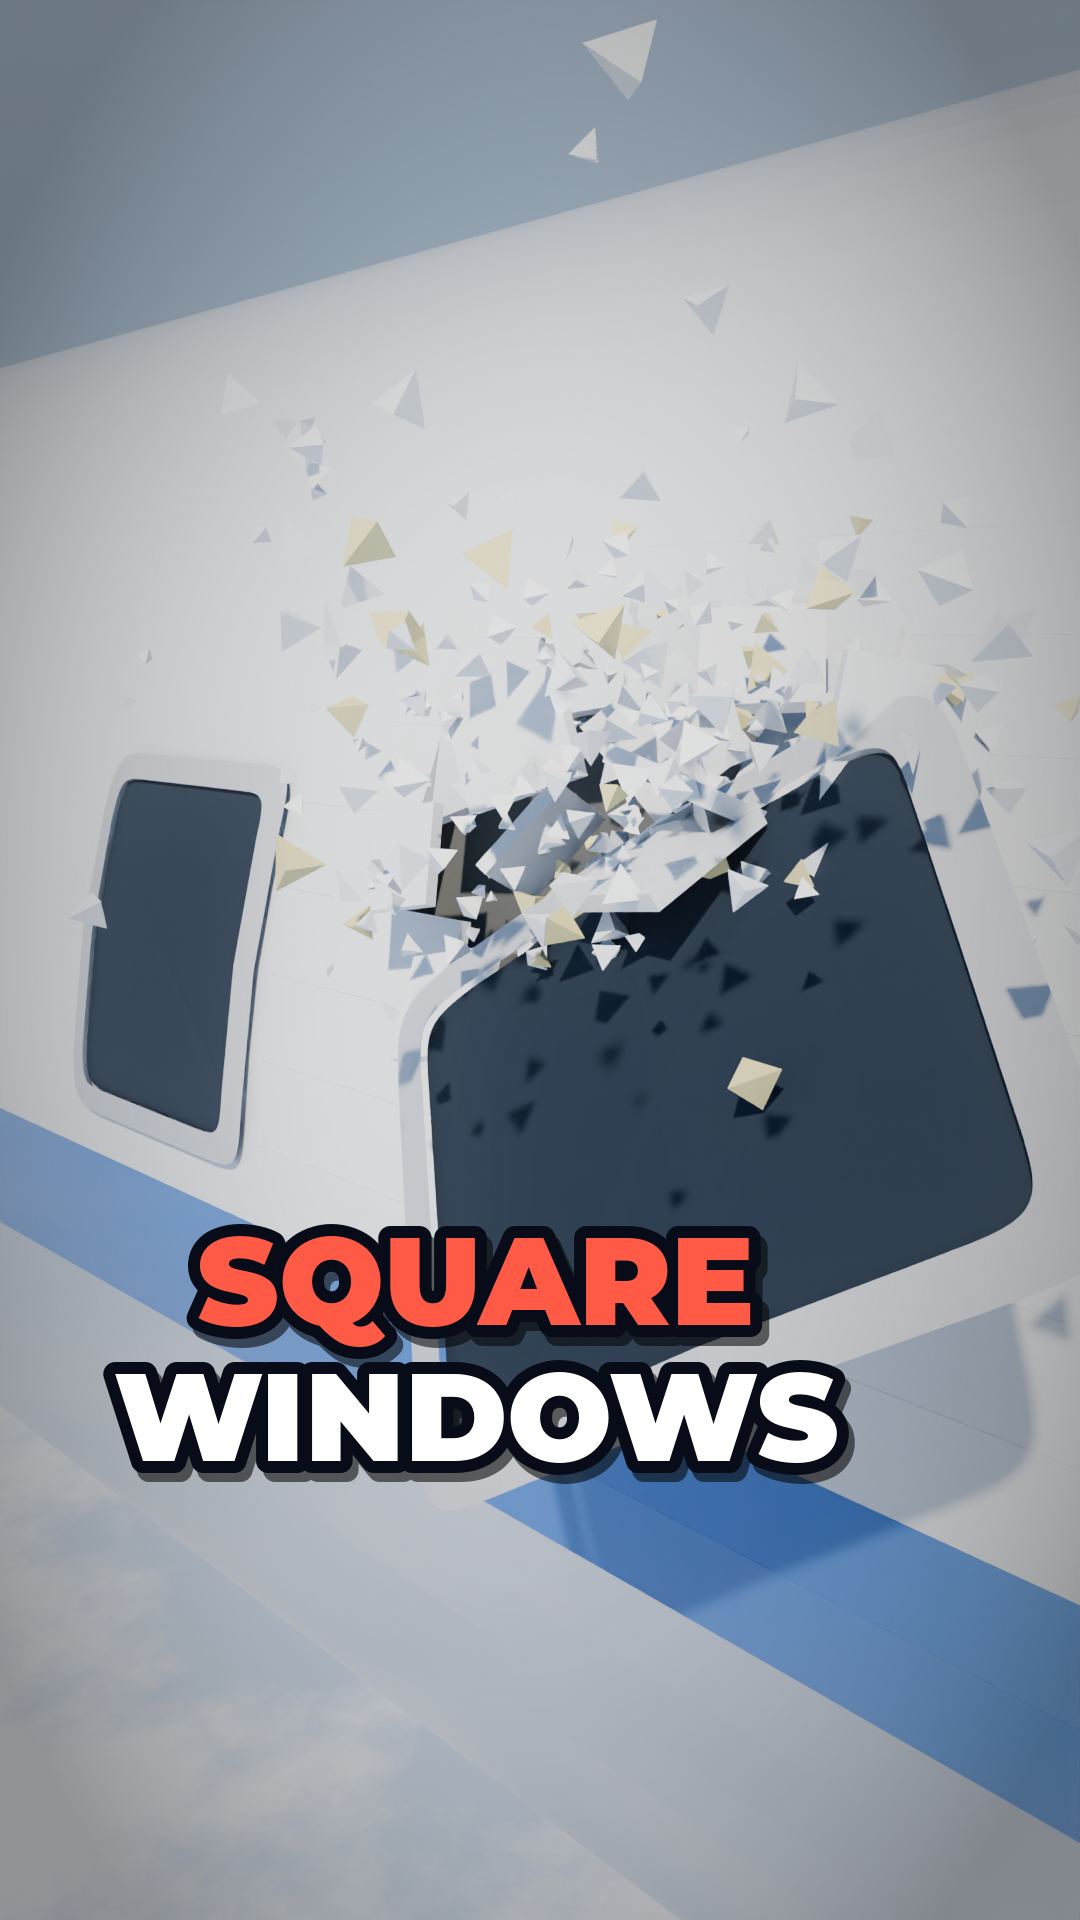
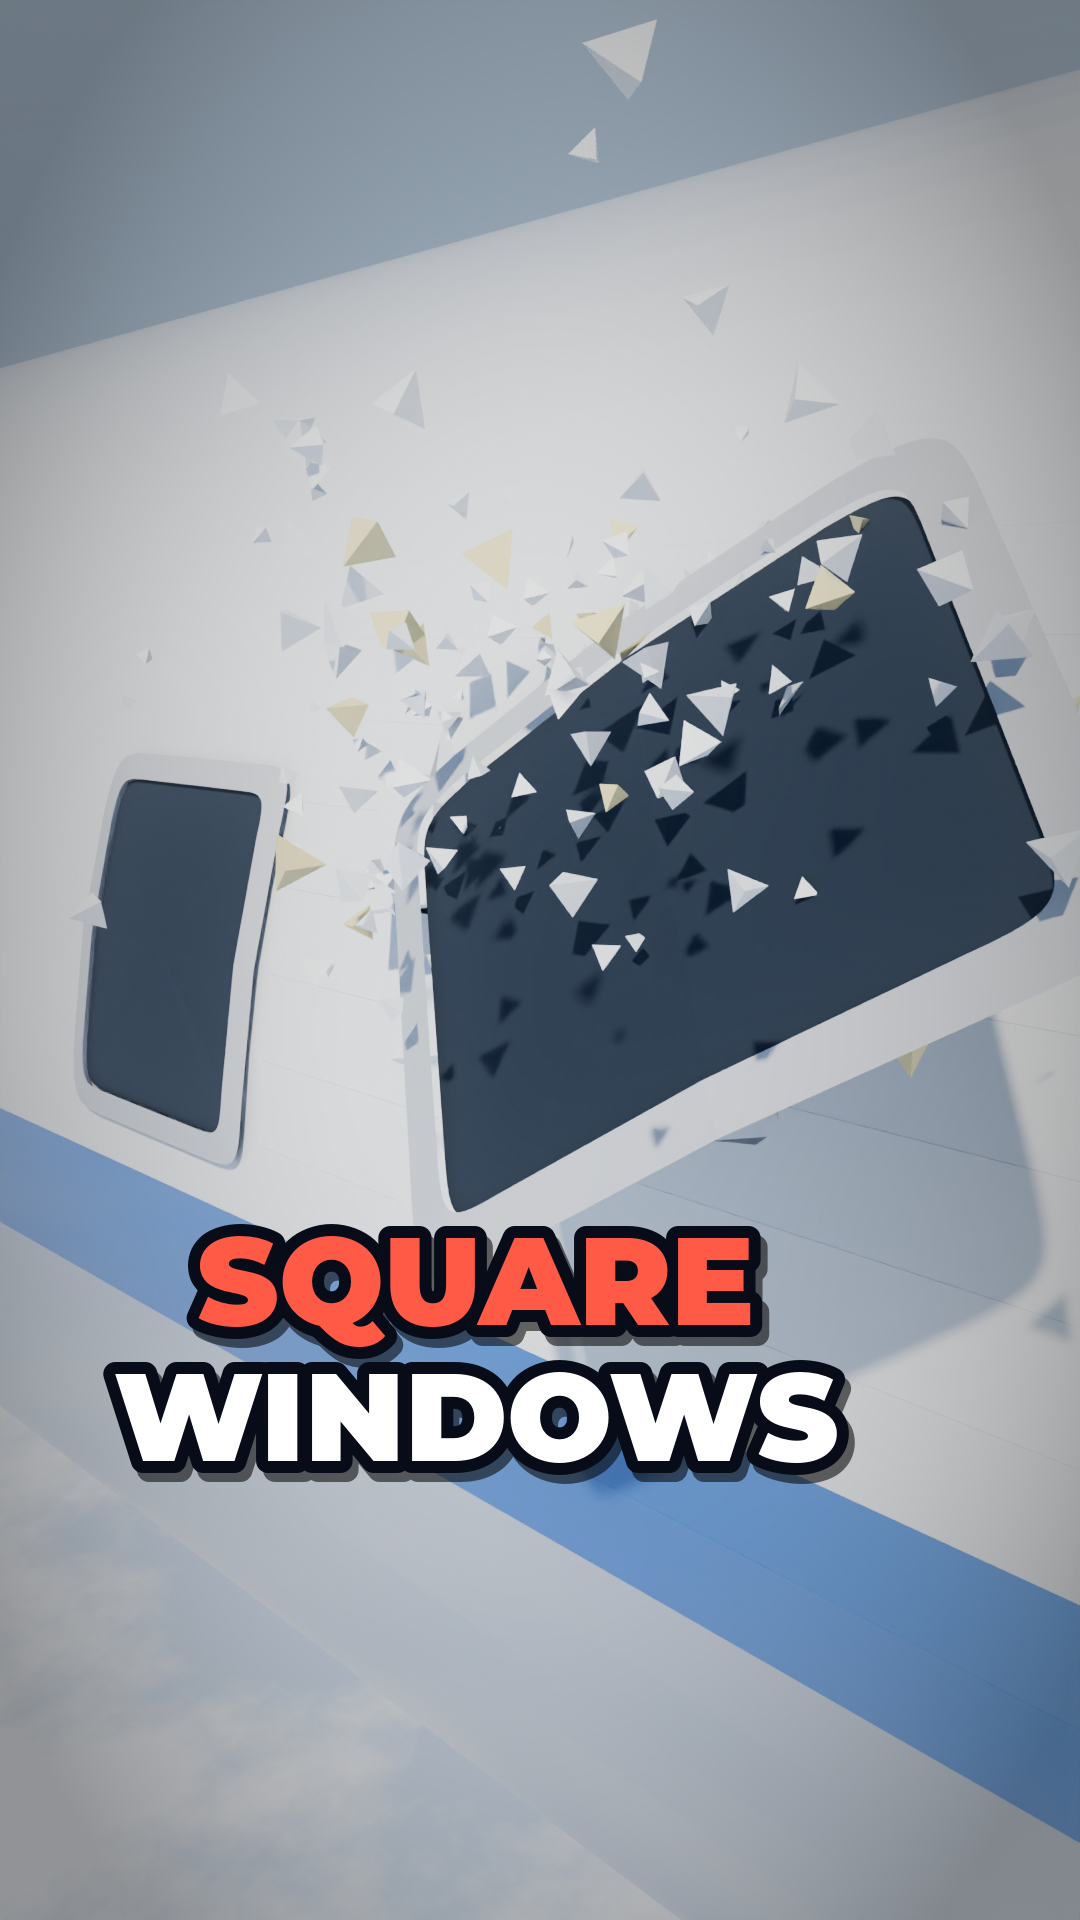
round-windows: design brief, new thumbnails, RULES lessons
Claude-Session: https://claude.ai/code/session_018xfX1RTuHsxXZMdfm4rYyN

Changed region(s): [[0.3667, 0.25, 1.0, 0.8438]]

diff --git a/round-windows/DESIGN_BRIEF.md b/round-windows/DESIGN_BRIEF.md
@@ -1,0 +1,9 @@
+# Design brief: why airplane windows are round
+
+- **Hook (frame 0):** close-up of a white fuselage with a row of square windows; the hero window W0 tears out of the skin from its corner, skin shards and glass flying toward the lens, "SQUARE WINDOWS" on screen, rip sound on frame 0.
+- **WHY beat (≈3 s):** "Why? Every flight, the cabin is pumped up like a balloon." A cabin cross-section swells and relaxes, "WHY?" then "8 LB ON EVERY SQUARE INCH".
+- **Story:** window rips out → the whole jet breaks apart in the sky → WHY: the cabin is pressurized every flight → a stress map around a square window: the push lines flow around it and pile up red at the sharp corner → flight counter ticks, a fatigue crack grows from that corner → 1954: two Comets break apart over the sea ("THE FIRST JETLINER", "DE HAVILLAND COMET") → the water tank at Farnborough, pressure cycled, a counter to ~3,000 → it splits open at a window corner, bubbles rising → the window morphs from square to round, the red spot fades ("ROUND CORNERS", "NO WEAK SPOT") → "So next time you fly, remember:" → back into the tearing square window.
+- **Look:** Blender Cycles (12 SPP + OIDN, no motion blur); glossy white airliner skin with a blue cheat line, dark glass; stress map in a blue→yellow→red ramp with white flow dashes; polished aluminium 1950s jetliner over a cloud-dappled sea; dim blue-green water tank.
+- **Scale:** 1 unit = 1 ft; fuselage radius 5.5 ft, windows 1.24 × 1.56 ft at 3.1 ft pitch; jetliner 93 ft long, radius 5 ft.
+- **Sound:** every effect driven by the same clocks as the picture (`timeline.py`): airflow roar, creaks and crack ticks, then the tear + decompression whoosh + the window frame flying by; rising hiss and skin creaks as the cabin swells; a hum and throb at the sharp corner; counter ticks and crackle as the crack grows; 1950s turbojet whine, then the break-up boom and debris rattle; underwater room tone with one pump thump per pressure cycle, the split snap + bubble gush; a shimmer as the square melts round and a ping on NO WEAK SPOT; a short air swish on every cut.
+- **Loop:** the rip clock runs continuously across the seam; the final shot drifts back into the hook camera; voice "…So next time you fly, remember: / airplane windows used to be square…".

diff --git a/RULES.md b/RULES.md
@@ -87,3 +87,10 @@ video is in brackets. Check them off in the video's `UPLOAD.md` QA section.
 - A label must point at the thing it names in every frame it is shown: check its projected anchor on the rendered frame, not only the world point (points behind other objects still project onto them).
 - The hero object must be visible when the voice or a label names it; never let a prop (sabot, case, cover) hide it at that moment.
 - After a re-render that moves a shot boundary or a camera, recompute which frames belong to the shot (`shot_index`) and delete all of them, including the boundary frame, before rendering.
+
+## Added after the round-windows video
+- A flat decal or glass disk on a curved hull sits further out than the chord sagitta, and a decal or crack on a hull that swells is offset more than the swell; otherwise it sinks under the skin and flickers.
+- Avoid large transparent sheets parallel to the view direction; time any volume (water, fog) render on one frame before the full run.
+- Debris that flies at the camera must miss the lens by more than its own size: print the closest approach of every hero piece before rendering.
+- After changing a hero motion that also plays at the loop end, re-render the loop-end frames too, then check the seam pixel diff.
+- Keep scratch disk free: delete old frame folders before a new render; a full disk corrupts frames silently.
